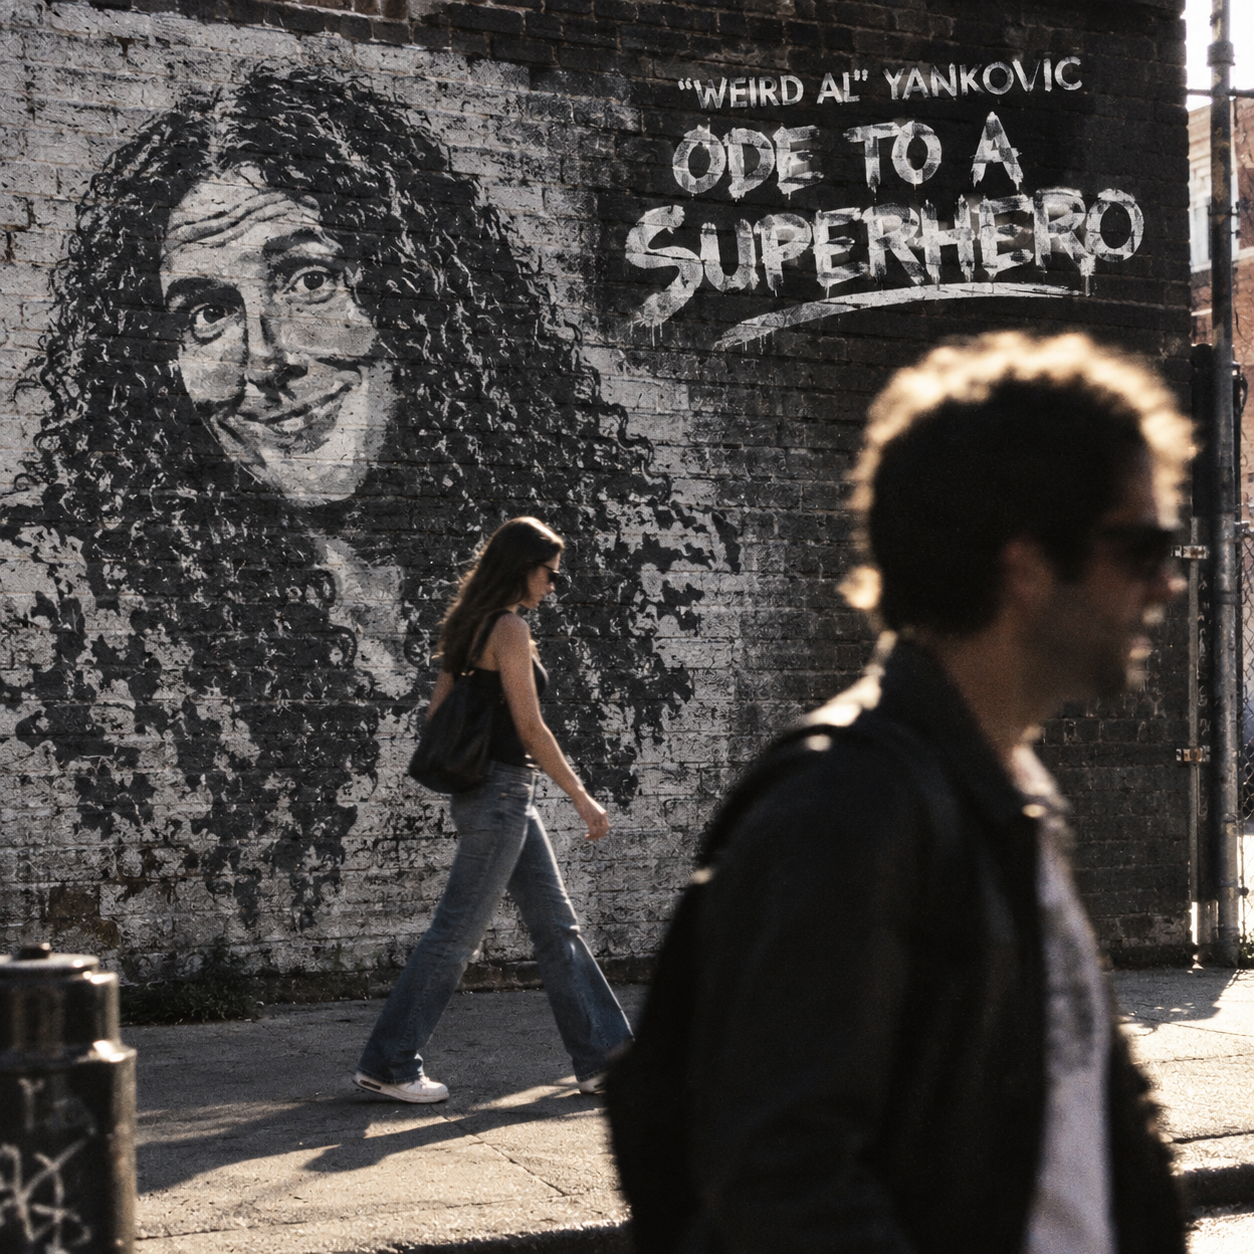
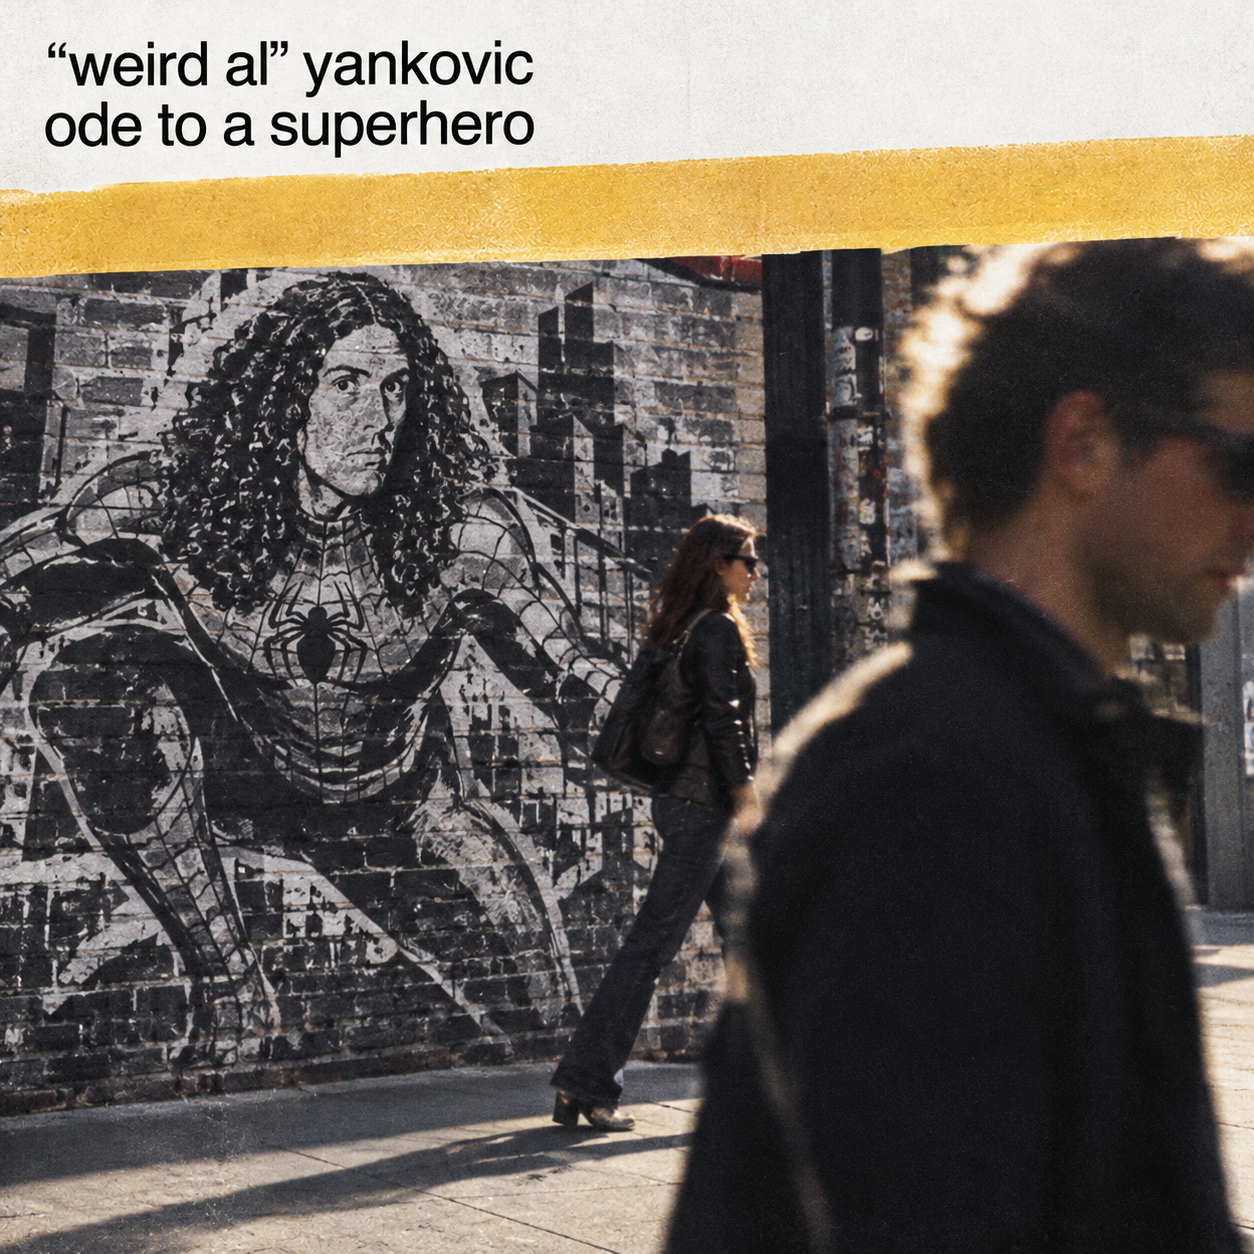
Preparação das páginas + Finalização da página de Couch Potato + Pré versão das paginas'

diff --git a/assets/links/songs/couch.html b/assets/links/songs/couch.html
@@ -20,17 +20,21 @@
 
     <hr size="3" color="#FFE8D6">
 
-    <h1 align="center">Faixa x - xxx</h1>
+    <h1 align="center">Faixa 1 - Couch Potato</h1>
 
     <p align="center">
-        <img src="" title="Imagem para a música">
+        <img src="../../img/couch.png" title="Imagem para a música Couch Potato" width="500">
+    </p>
+    <p align="center">
+        <font size="2">Imagem modificada com ajuda da inteligência artificial</font>
     </p>
 
     <h3 align="center">Ouça a faixa abaixo:</h3>
 
     <p align="center">
         <audio controls controlsList="nodownload">
-    
+            <source src="../../audios/01-couch.mp3" type="audio/mp3" />
+            Seu navegador não suporta a tag de áudio.
         </audio>
     </p>
 
@@ -38,13 +42,146 @@
 
     <h1 align="center">Informações sobre a faixa:</h1>
 
+    <p align="justify">“Couch Potato” é a primeira faixa de Poodle Hat, lançado em 2003, e é uma paródia de “Lose Yourself”, de Eminem, música que ficou famosa por fazer parte da trilha sonora do filme 8 Mile. Na versão de “Weird Al” Yankovic, o foco da música muda completamente: em vez de falar sobre oportunidades e determinação, o narrador descreve sua obsessão por assistir televisão, fazendo uma enorme quantidade de referências a programas, celebridades e canais de TV. A letra funciona quase como um catálogo da televisão norte-americana do início dos anos 2000, misturando programas de diferentes gêneros, reality shows, séries, desenhos e atrações de notícias.</p>
+    <p align="justify">Antes de gravar a música, Yankovic pesquisou bastante sobre televisão para garantir que as referências fossem precisas. Ele chegou a comentar que, quando escreve uma música sobre TV, passa bastante tempo assistindo televisão, lendo a TV Guide e pesquisando artigos sobre programas, podendo até passar o dia inteiro assistindo TV e considerar aquilo parte do seu trabalho de pesquisa. A música menciona programas como The Flintstones, The Osbournes, Da Ali G Show, 24, Law & Order, The Muppet Show, Survivor, SpongeBob SquarePants, MacGyver, The Sopranos e The Oprah Winfrey Show, entre muitos outros.</p>
+    <p align="justify">Além dos programas, a letra também cita diversas personalidades, como Simon Cowell, Anna Nicole Smith, Larry King, Richard Simmons, Lisa Kudrow, Jay Leno, Madonna, Luke Perry e Jennifer Lopez. Também aparecem referências a diversos canais e redes de televisão, incluindo C-SPAN, HBO, Discovery Channel, MTV, Disney Channel, History Channel, TLC, Fox e The Weather Channel. A enorme quantidade de nomes ajuda a criar a sensação de que o narrador praticamente vive em frente à televisão, pulando constantemente de um programa para outro.</p>
+    <p align="justify">Eminem autorizou Yankovic a gravar e lançar a paródia, mas não permitiu que fosse produzido um videoclipe para a música. Al respeitou a decisão e não fez o vídeo, algo que acabou complicando a escolha da gravadora sobre qual música deveria receber maior divulgação. Mesmo sem um videoclipe, “Couch Potato” se tornou uma das faixas mais conhecidas de Poodle Hat, transformando a ideia de uma pessoa viciada em televisão em uma grande paródia da cultura televisiva da época.</p>
+    
     <hr size="3" color="#FFE8D6">
 
     <h1 align="center">Letra da música:</h1>
 
     <pre>
     <font face="Monotype Corsiva" color="#FFE8D6" size="5">
-    
+    Talking: Look
+    If you had
+    One shot
+    To sit on your lazy butt
+    And watch all the TV you ever wanted
+    Until your brain turned to mush
+    Would you go for it
+    Or just let it slip?
+
+    Singing:
+    Yo
+    Remote is ready
+    Eyes wide, palms are sweaty
+    There’s Flintstones on the TV already
+    Wilma N’ Betty
+    No virgin to channel surfin'
+    And I’m HD ready
+    So I flip, garbage is all I’m getting
+    There’s Simon Cowell
+    Who folks wanna disembowel
+    He opens his mouth, always says something foul
+    They’re dying, Wow!
+    Wannabes are crying now
+    He votes them out
+    Time to throw in the towel
+
+    Shows based on reality
+    Oh the humanity!
+    Oh! Ozzy’s family!
+    Sho’ loves profanity!
+    Whoa! The insanity!
+    Oh! Dogs that crap and pee
+    Home of depravity?
+    No! They live happily
+
+    Yo! Plus “The Ali G Show”
+    And “Celebrity Mole”
+    Oh there’s Anna Nicole
+    She’s scaring me
+    “Look ma, no cavities!”
+    Oh! It’s a station break
+    Better go out to the kitchen and microwave something
+
+    “You’re gonna lose your mind watchin’ TV”
+    They told me, they’d scold me
+    But I still tune in every show (show)
+    My cable gets C-SPAN, TV Land and HBO
+    The Travel Channel, Discovery, and Lifetime (yo)
+
+    “You’re gonna lose your mind watchin’ TV”
+    They told me, cajoled me
+    “Turn off those music videos!” (no!)
+    I’m gonna watch C-SPAN, TV Land and HBO
+    The History Channel and QVC and Lifetime (yo)
+    “You’re Gonna…”
+
+    My butt is aching
+    As I watch NASCAR racing
+    That show about undertaking
+    Larry King to “24” to “Law and Order”
+    The Weather Channel’s boring like 60 Minutes
+    Ancient reporters next up on “E True Hollywood Story”
+    The rise and decline of twelve actors named Corey
+
+    Shows for next fall, they’ve already been naming
+    “CSI: Boise”, and “Touched By An Uncle”, both sound pretty lame, man
+    So does “Everybody Tolerates Raymond”
+    And “King of Queens” jumped the shark the first minute
+    I can’t believe Richard Simmons ain’t in it.
+
+    I’ll move right on to “8 Simple Rules for Dating My Teenaged Daughter”
+    Then I bet I’ll watch “The Bachelorette”
+    Followed by “Welcome Back, Kotter”
+    And “The Muppet Show” where they go “Mahna Mahna”
+
+    “You’re gonna lose your mind watching TV”
+    They told me, they’d scold me
+    But I still tune in every show (show)
+    My cable gets C-SPAN, TV Land and HBO
+    The Disney Channel, and A&E and Lifetime
+
+    “You’re gonna lose your mind watching TV”
+    They told me, cajoled me
+    But I still love Lisa Kudrow (drow)
+    I’m lookin’ at C-SPAN, TV Land and HBO
+    The Playboy Channel and Court TV and Lifetime (yo)
+
+    Never missed “Melrose Place” or “Lost in Space”
+    I’ve seen each “Amazing Race” and “Without a Trace”
+    But I only watched “Will and Grace” one time one day
+    Wished I hadn’t cause TiVo now thinks I’m gay
+
+    Oh, and “Fear Factor” I watched maybe a half hour
+    After that felt like I needed a long shower
+    Network execs with naked ambition
+    “Next week on FOX – watch lions eat Christians!”
+
+    Like to tie up those programming planners
+    Make’em watch all of that junk ’til their heads explode just like “Scanners”
+    Leech-covered grub-eating fools on “Survivor”
+    Look, there’s James Lipton discussing the oeuvre of Mr. Rob Schneider
+
+    And there’s Gilligan and SpongeBob, plus there’s MacGyver
+    And Jay Leno has got Madonna and hey, there’s Luke Perry
+    And a special all pig-latin episode of “Drew Carey”
+
+    Wanna turn on ET cause I’m a gossip freak
+    And I gotta know who J. Lo is marryin’ this week
+    A 30 second spot, then we come back to “Are You Hot?”
+    I was planning on recording “The Sopranos”.  I forgot!
+    I love shows with or without a plot
+    I stare ’til my legs are numb, my eyes bloodshot
+    Because I only have got
+    one brain to rot
+    I’m gonna spend my life watching television a lot
+
+    “You’re gonna lose your mind watching TV”
+    They told me, they’d scold me
+    But I still tune into every show (show)
+    My cable’s gets C-SPAN, TV-Land, and HBO
+    The Sci-Fi Channel and AMC and Lifetime (yo!)
+
+    “You’re gonna lose your mind watching TV”
+    They told me, cajoled me,
+    “Turn off that Oprah Winfrey show!” (no!)
+    I got it on C-SPAN, TV Land and HBO
+    The Learning Channel and MTV and Lifetime (yo!)
+
+    You can watch anything you want to, man.
     </font>
     </pre>
 

diff --git a/assets/links/main/tracklist.html b/assets/links/main/tracklist.html
@@ -22,18 +22,18 @@
 
     <h1 align="center">Tracklist do álbum</h1>
     <ol type="1">
-    <li>Couch Potato - 4m18s</li>
-    <li>Hardware Store - 3m44s</li>
-    <li>Trash Day - 3m12s</li>
-    <li>Party at the Leper Colony - 3m38s</li>
-    <li>Angry White Boy Polka - 5m04s</li>
-    <li>Wanna B Ur Lovr - 6m14s</li>
-    <li>A Complicated Song - 3m40s</li>
-    <li>Why Does This Always Happen to Me? - 4m52s</li>
-    <li>Ode to a Superhero - 4m53s</li>
-    <li>Bob - 2m29s</li>
-    <li>eBay - 3m36s</li>
-    <li>Genius in France - 8m58s</li>
+    <li><a href="../songs/couch.html"><font color="#FFE8D6"><u>Couch Potato - 4m18s</u></font></a></li>
+    <li><a href="../songs/hardware.html"><font color="#FFE8D6"><u>Hardware Store - 3m43s</u></font></a></li>
+    <li><a href="../songs/trash.html"><font color="#FFE8D6"><u>Trash Day - 3m11s</u></font></a></li>
+    <li><a href="../songs/lepercolony.html"><font color="#FFE8D6"><u>Party at the Leper Colony - 3m38s</u></font></a></li>
+    <li><a href="../songs/whiteboy.html"><font color="#FFE8D6"><u>Angry White Boy Polka - 5m03s</u></font></a></li>
+    <li><a href="../songs/wannalove.html"><font color="#FFE8D6"><u>Wanna B Ur Lovr - 6m14s</u></font></a></li>
+    <li><a href="../songs/complicated.html"><font color="#FFE8D6"><u>A Complicated Song - 3m39s</u></font></a></li>
+    <li><a href="../songs/why.html"><font color="#FFE8D6"><u>Why Does This Always Happen to Me? - 4m52s</u></font></a></li>
+    <li><a href="../songs/superhero.html"><font color="#FFE8D6"><u>Ode to a Superhero - 4m52s</u></font></a></li>
+    <li><a href="../songs/bob.html"><font color="#FFE8D6"><u>Bob - 2m29s</u></font></a></li>
+    <li><a href="../songs/ebay.html"><font color="#FFE8D6"><u>eBay - 3m36s</u></font></a></li>
+    <li><a href="../songs/genius.html"><font color="#FFE8D6"><u>Genius in France - 8m56s</u></font></a></li>
     </ol>
 
     <hr size="3" color="#FFE8D6">
